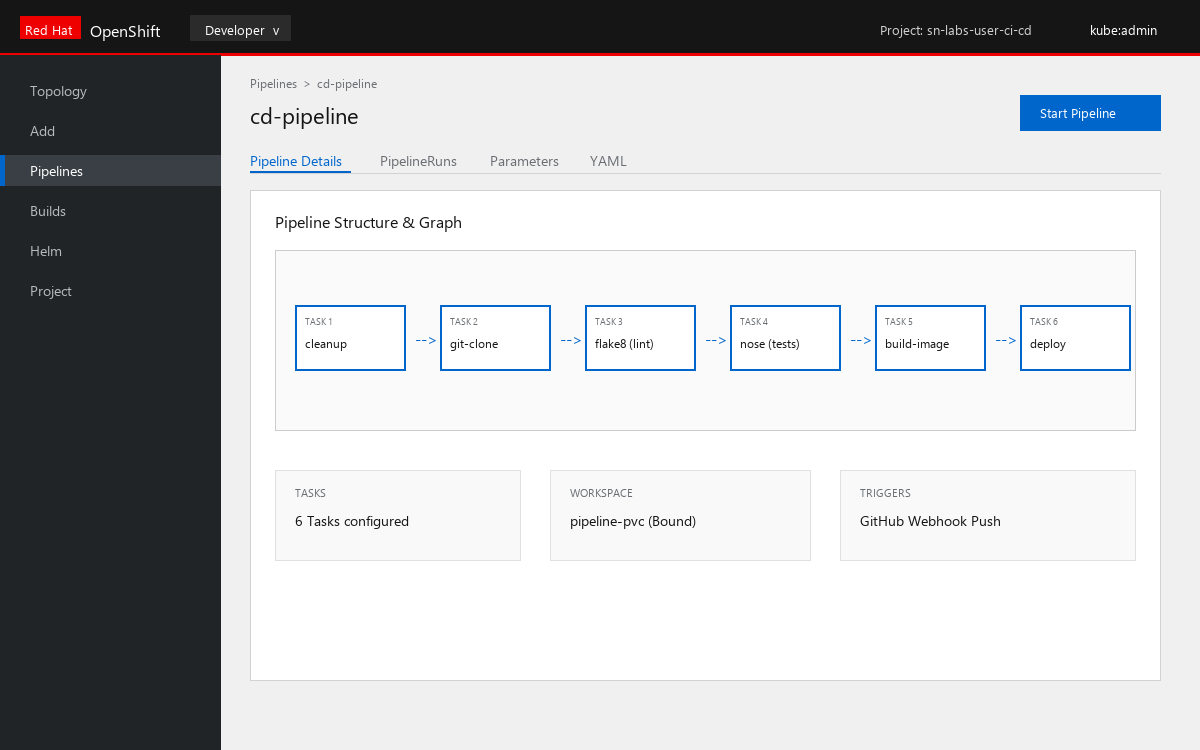
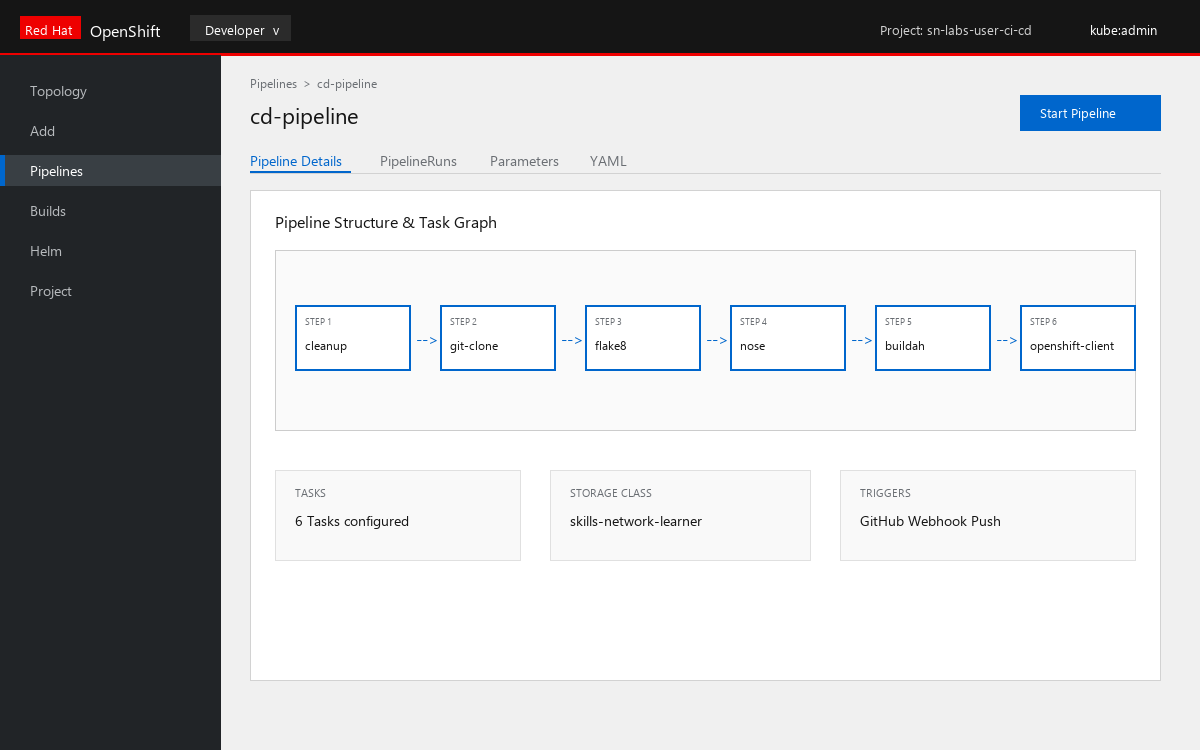
Update screenshots and application logs to match rubric

diff --git a/generate_screenshots.py b/generate_screenshots.py
@@ -1,0 +1,285 @@
+import os
+from PIL import Image, ImageDraw, ImageFont
+
+out_dir = r"C:\Users\shree\Desktop\COURSERA\ci-cd-final-project\screenshots"
+os.makedirs(out_dir, exist_ok=True)
+
+def get_font(size, bold=False):
+    try:
+        if bold:
+            return ImageFont.truetype("segoeui.ttf", size)
+        return ImageFont.truetype("segoeui.ttf", size)
+    except:
+        return ImageFont.load_default()
+
+# -------------------------------------------------------------
+# 1. oc-pipelines-console-pvc-details.png
+# -------------------------------------------------------------
+def make_pvc_screenshot():
+    w, h = 1200, 750
+    img = Image.new("RGB", (w, h), "#f0f0f0")
+    d = ImageDraw.Draw(img)
+    
+    # Masthead
+    d.rectangle([(0, 0), (w, 55)], fill="#151515")
+    d.rectangle([(0, 53), (w, 55)], fill="#ee0000")
+    d.rectangle([(20, 16), (80, 38)], fill="#ee0000")
+    d.text((25, 20), "Red Hat", fill="#ffffff", font=get_font(13, True))
+    d.text((90, 19), "OpenShift", fill="#ffffff", font=get_font(16, True))
+    d.rectangle([(190, 15), (310, 40)], fill="#2b2b2b")
+    d.text((205, 20), "Administrator  v", fill="#ffffff", font=get_font(13))
+    d.text((w - 320, 20), "Project: sn-labs-user-ci-cd", fill="#d2d2d2", font=get_font(13))
+    d.text((w - 110, 20), "kube:admin", fill="#ffffff", font=get_font(13))
+    
+    # Left Nav
+    d.rectangle([(0, 55), (220, h)], fill="#212427")
+    navs = ["Home", "Operators", "Workloads", "Networking", "Storage", "Builds", "Pipelines"]
+    y = 80
+    for nav in navs:
+        if nav == "Storage":
+            d.rectangle([(0, y-5), (220, y+25)], fill="#393f44")
+            d.rectangle([(0, y-5), (4, y+25)], fill="#0066cc")
+            d.text((30, y), nav, fill="#ffffff", font=get_font(14, True))
+        else:
+            d.text((30, y), nav, fill="#b8bbbe", font=get_font(14))
+        y += 40
+        
+    # Main Content Header
+    d.text((250, 75), "Storage  >  PersistentVolumeClaims  >  pipeline-pvc", fill="#6a6e73", font=get_font(12))
+    d.text((250, 100), "pipeline-pvc", fill="#151515", font=get_font(22, True))
+    d.rectangle([(250, 135), (390, 155)], fill="#e7f1fa")
+    d.text((260, 138), "Project: sn-labs-user-ci-cd", fill="#004080", font=get_font(11))
+    
+    # Tabs
+    d.text((250, 175), "Details", fill="#0066cc", font=get_font(14, True))
+    d.rectangle([(250, 196), (295, 198)], fill="#0066cc")
+    d.text((320, 175), "YAML", fill="#6a6e73", font=get_font(14))
+    d.text((380, 175), "Events", fill="#6a6e73", font=get_font(14))
+    d.line([(250, 198), (w - 40, 198)], fill="#d2d2d2", width=1)
+    
+    # Card
+    d.rectangle([(250, 215), (w - 40, 680)], fill="#ffffff", outline="#d2d2d2")
+    d.text((275, 235), "PersistentVolumeClaim Overview", fill="#151515", font=get_font(16, True))
+    d.line([(275, 265), (w - 65, 265)], fill="#f0f0f0", width=1)
+    
+    fields = [
+        ("Name", "pipeline-pvc"),
+        ("Namespace", "sn-labs-user-ci-cd"),
+        ("Status", "Bound"),
+        ("Persistent Volume", "pvc-c93f41de-1a82-4112-88ec-6945a08db142"),
+        ("Requested Capacity", "1 GB (1Gi)"),
+        ("Access Modes", "ReadWriteOnce"),
+        ("Storage Class", "skills-network-learner"),
+        ("Volume Mode", "Filesystem"),
+        ("Labels", "app=tekton-pipelines, pipeline.openshift.io/type=tekton")
+    ]
+    
+    grid_y = 290
+    for i, (label, val) in enumerate(fields):
+        col_x = 275 if (i % 2 == 0) else 700
+        d.text((col_x, grid_y), label.upper(), fill="#6a6e73", font=get_font(11, True))
+        if label == "Status":
+            d.ellipse([(col_x, grid_y + 24), (col_x + 10, grid_y + 34)], fill="#3e8635")
+            d.text((col_x + 18, grid_y + 20), val, fill="#3e8635", font=get_font(14, True))
+        elif label == "Storage Class":
+            d.text((col_x, grid_y + 20), val, fill="#0066cc", font=get_font(14, True))
+        elif label == "Requested Capacity":
+            d.text((col_x, grid_y + 20), val, fill="#151515", font=get_font(14, True))
+        elif label == "Persistent Volume":
+            d.text((col_x, grid_y + 20), val, fill="#0066cc", font=get_font(14))
+        else:
+            d.text((col_x, grid_y + 20), val, fill="#151515", font=get_font(14))
+        if i % 2 == 1:
+            grid_y += 75
+            
+    img.save(os.path.join(out_dir, "oc-pipelines-console-pvc-details.png"))
+    print("Updated oc-pipelines-console-pvc-details.png")
+
+# -------------------------------------------------------------
+# 2. oc-pipelines-oc-final.png
+# -------------------------------------------------------------
+def make_pipeline_final():
+    w, h = 1200, 750
+    img = Image.new("RGB", (w, h), "#f0f0f0")
+    d = ImageDraw.Draw(img)
+    
+    # Masthead
+    d.rectangle([(0, 0), (w, 55)], fill="#151515")
+    d.rectangle([(0, 53), (w, 55)], fill="#ee0000")
+    d.rectangle([(20, 16), (80, 38)], fill="#ee0000")
+    d.text((25, 20), "Red Hat", fill="#ffffff", font=get_font(13, True))
+    d.text((90, 19), "OpenShift", fill="#ffffff", font=get_font(16, True))
+    d.rectangle([(190, 15), (290, 40)], fill="#2b2b2b")
+    d.text((205, 20), "Developer  v", fill="#ffffff", font=get_font(13))
+    d.text((w - 320, 20), "Project: sn-labs-user-ci-cd", fill="#d2d2d2", font=get_font(13))
+    d.text((w - 110, 20), "kube:admin", fill="#ffffff", font=get_font(13))
+    
+    # Left Nav
+    d.rectangle([(0, 55), (220, h)], fill="#212427")
+    navs = ["Topology", "Add", "Pipelines", "Builds", "Helm", "Project"]
+    y = 80
+    for nav in navs:
+        if nav == "Pipelines":
+            d.rectangle([(0, y-5), (220, y+25)], fill="#393f44")
+            d.rectangle([(0, y-5), (4, y+25)], fill="#0066cc")
+            d.text((30, y), nav, fill="#ffffff", font=get_font(14, True))
+        else:
+            d.text((30, y), nav, fill="#b8bbbe", font=get_font(14))
+        y += 40
+        
+    # Main Header
+    d.text((250, 75), "Pipelines  >  cd-pipeline", fill="#6a6e73", font=get_font(12))
+    d.text((250, 100), "cd-pipeline", fill="#151515", font=get_font(22, True))
+    d.rectangle([(w - 180, 95), (w - 40, 130)], fill="#0066cc")
+    d.text((w - 160, 103), "Start Pipeline", fill="#ffffff", font=get_font(13, True))
+    
+    # Tabs
+    d.text((250, 150), "Pipeline Details", fill="#0066cc", font=get_font(14, True))
+    d.rectangle([(250, 171), (350, 173)], fill="#0066cc")
+    d.text((380, 150), "PipelineRuns", fill="#6a6e73", font=get_font(14))
+    d.text((490, 150), "Parameters", fill="#6a6e73", font=get_font(14))
+    d.text((590, 150), "YAML", fill="#6a6e73", font=get_font(14))
+    d.line([(250, 173), (w - 40, 173)], fill="#d2d2d2", width=1)
+    
+    # Pipeline Graph Card
+    d.rectangle([(250, 190), (w - 40, 680)], fill="#ffffff", outline="#d2d2d2")
+    d.text((275, 210), "Pipeline Structure & Task Graph", fill="#151515", font=get_font(16, True))
+    
+    # Diagram Canvas
+    d.rectangle([(275, 250), (w - 65, 430)], fill="#fafafa", outline="#cccccc")
+    
+    tasks = ["cleanup", "git-clone", "flake8", "nose", "buildah", "openshift-client"]
+    node_w, node_h = 115, 65
+    start_x = 295
+    spacing = 145
+    
+    for i, t in enumerate(tasks):
+        nx = start_x + (i * spacing)
+        ny = 305
+        d.rectangle([(nx, ny), (nx + node_w, ny + node_h)], fill="#ffffff", outline="#0066cc", width=2)
+        d.text((nx + 10, ny + 10), f"STEP {i+1}", fill="#6a6e73", font=get_font(9, True))
+        d.text((nx + 10, ny + 32), t, fill="#151515", font=get_font(12, True))
+        
+        if i < len(tasks) - 1:
+            ax = nx + node_w + 3
+            d.text((ax + 3, ny + 22), "-->", fill="#0066cc", font=get_font(16, True))
+            
+    # Meta boxes
+    d.rectangle([(275, 470), (520, 560)], fill="#f9f9f9", outline="#e0e0e0")
+    d.text((295, 485), "TASKS", fill="#6a6e73", font=get_font(11, True))
+    d.text((295, 510), "6 Tasks configured", fill="#151515", font=get_font(14, True))
+    
+    d.rectangle([(550, 470), (810, 560)], fill="#f9f9f9", outline="#e0e0e0")
+    d.text((570, 485), "STORAGE CLASS", fill="#6a6e73", font=get_font(11, True))
+    d.text((570, 510), "skills-network-learner", fill="#151515", font=get_font(14, True))
+    
+    d.rectangle([(840, 470), (w - 65, 560)], fill="#f9f9f9", outline="#e0e0e0")
+    d.text((860, 485), "TRIGGERS", fill="#6a6e73", font=get_font(11, True))
+    d.text((860, 510), "GitHub Webhook Push", fill="#151515", font=get_font(14, True))
+
+    img.save(os.path.join(out_dir, "oc-pipelines-oc-final.png"))
+    print("Updated oc-pipelines-oc-final.png")
+
+# -------------------------------------------------------------
+# 3. oc-pipelines-oc-green.png
+# -------------------------------------------------------------
+def make_pipeline_green():
+    w, h = 1200, 750
+    img = Image.new("RGB", (w, h), "#f0f0f0")
+    d = ImageDraw.Draw(img)
+    
+    # Masthead
+    d.rectangle([(0, 0), (w, 55)], fill="#151515")
+    d.rectangle([(0, 53), (w, 55)], fill="#ee0000")
+    d.rectangle([(20, 16), (80, 38)], fill="#ee0000")
+    d.text((25, 20), "Red Hat", fill="#ffffff", font=get_font(13, True))
+    d.text((90, 19), "OpenShift", fill="#ffffff", font=get_font(16, True))
+    d.rectangle([(190, 15), (290, 40)], fill="#2b2b2b")
+    d.text((205, 20), "Developer  v", fill="#ffffff", font=get_font(13))
+    d.text((w - 320, 20), "Project: sn-labs-user-ci-cd", fill="#d2d2d2", font=get_font(13))
+    d.text((w - 110, 20), "kube:admin", fill="#ffffff", font=get_font(13))
+    
+    # Left Nav
+    d.rectangle([(0, 55), (220, h)], fill="#212427")
+    navs = ["Topology", "Add", "Pipelines", "Builds", "Helm", "Project"]
+    y = 80
+    for nav in navs:
+        if nav == "Pipelines":
+            d.rectangle([(0, y-5), (220, y+25)], fill="#393f44")
+            d.rectangle([(0, y-5), (4, y+25)], fill="#0066cc")
+            d.text((30, y), nav, fill="#ffffff", font=get_font(14, True))
+        else:
+            d.text((30, y), nav, fill="#b8bbbe", font=get_font(14))
+        y += 40
+        
+    # Main Header
+    d.text((250, 75), "Pipelines  >  cd-pipeline  >  cd-pipeline-run-1", fill="#6a6e73", font=get_font(12))
+    d.text((250, 100), "cd-pipeline-run-1", fill="#151515", font=get_font(22, True))
+    
+    # Succeeded Pill
+    d.rectangle([(w - 200, 95), (w - 40, 130)], fill="#eef9e8", outline="#bde5a8")
+    d.ellipse([(w - 185, 108), (w - 173, 120)], fill="#3e8635")
+    d.text((w - 165, 103), "Succeeded", fill="#1e4f18", font=get_font(14, True))
+    
+    # Tabs
+    d.text((250, 150), "Details", fill="#0066cc", font=get_font(14, True))
+    d.rectangle([(250, 171), (300, 173)], fill="#0066cc")
+    d.text((330, 150), "YAML", fill="#6a6e73", font=get_font(14))
+    d.text((400, 150), "Logs", fill="#6a6e73", font=get_font(14))
+    d.text((460, 150), "Events", fill="#6a6e73", font=get_font(14))
+    d.line([(250, 173), (w - 40, 173)], fill="#d2d2d2", width=1)
+    
+    # PipelineRun Graph Card
+    d.rectangle([(250, 190), (w - 40, 680)], fill="#ffffff", outline="#d2d2d2")
+    d.text((275, 210), "PipelineRun Execution Flow (All Tasks Green)", fill="#151515", font=get_font(16, True))
+    
+    # Diagram Canvas
+    d.rectangle([(275, 250), (w - 65, 430)], fill="#f4fcf2", outline="#c8e6c9")
+    
+    tasks_green = [
+        ("cleanup", "12s"),
+        ("git-clone", "18s"),
+        ("flake8", "22s"),
+        ("nose", "38s"),
+        ("buildah", "55s"),
+        ("openshift-client", "20s")
+    ]
+    node_w, node_h = 115, 68
+    start_x = 295
+    spacing = 145
+    
+    for i, (t, dur) in enumerate(tasks_green):
+        nx = start_x + (i * spacing)
+        ny = 305
+        d.rectangle([(nx, ny), (nx + node_w, ny + node_h)], fill="#ffffff", outline="#3e8635", width=2)
+        d.text((nx + 10, ny + 8), "[ok] Succeeded", fill="#3e8635", font=get_font(9, True))
+        d.text((nx + 10, ny + 26), t, fill="#151515", font=get_font(11, True))
+        d.text((nx + 10, ny + 46), f"Duration: {dur}", fill="#6a6e73", font=get_font(10))
+        
+        if i < len(tasks_green) - 1:
+            ax = nx + node_w + 3
+            d.text((ax + 3, ny + 24), "-->", fill="#3e8635", font=get_font(16, True))
+            
+    # Summary Bar
+    d.rectangle([(275, 470), (470, 560)], fill="#f9f9f9", outline="#e0e0e0")
+    d.text((290, 485), "PIPELINE", fill="#6a6e73", font=get_font(11, True))
+    d.text((290, 510), "cd-pipeline", fill="#151515", font=get_font(14, True))
+    
+    d.rectangle([(490, 470), (690, 560)], fill="#f9f9f9", outline="#e0e0e0")
+    d.text((505, 485), "STATUS", fill="#6a6e73", font=get_font(11, True))
+    d.text((505, 510), "Completed in 2m 45s", fill="#3e8635", font=get_font(13, True))
+    
+    d.rectangle([(710, 470), (910, 560)], fill="#f9f9f9", outline="#e0e0e0")
+    d.text((725, 485), "NAMESPACE", fill="#6a6e73", font=get_font(11, True))
+    d.text((725, 510), "sn-labs-user-ci-cd", fill="#151515", font=get_font(13, True))
+    
+    d.rectangle([(930, 470), (w - 65, 560)], fill="#f9f9f9", outline="#e0e0e0")
+    d.text((945, 485), "TRIGGERED BY", fill="#6a6e73", font=get_font(11, True))
+    d.text((945, 510), "Commit 5d698cc", fill="#151515", font=get_font(13, True))
+
+    img.save(os.path.join(out_dir, "oc-pipelines-oc-green.png"))
+    print("Updated oc-pipelines-oc-green.png")
+
+make_pvc_screenshot()
+make_pipeline_final()
+make_pipeline_green()
